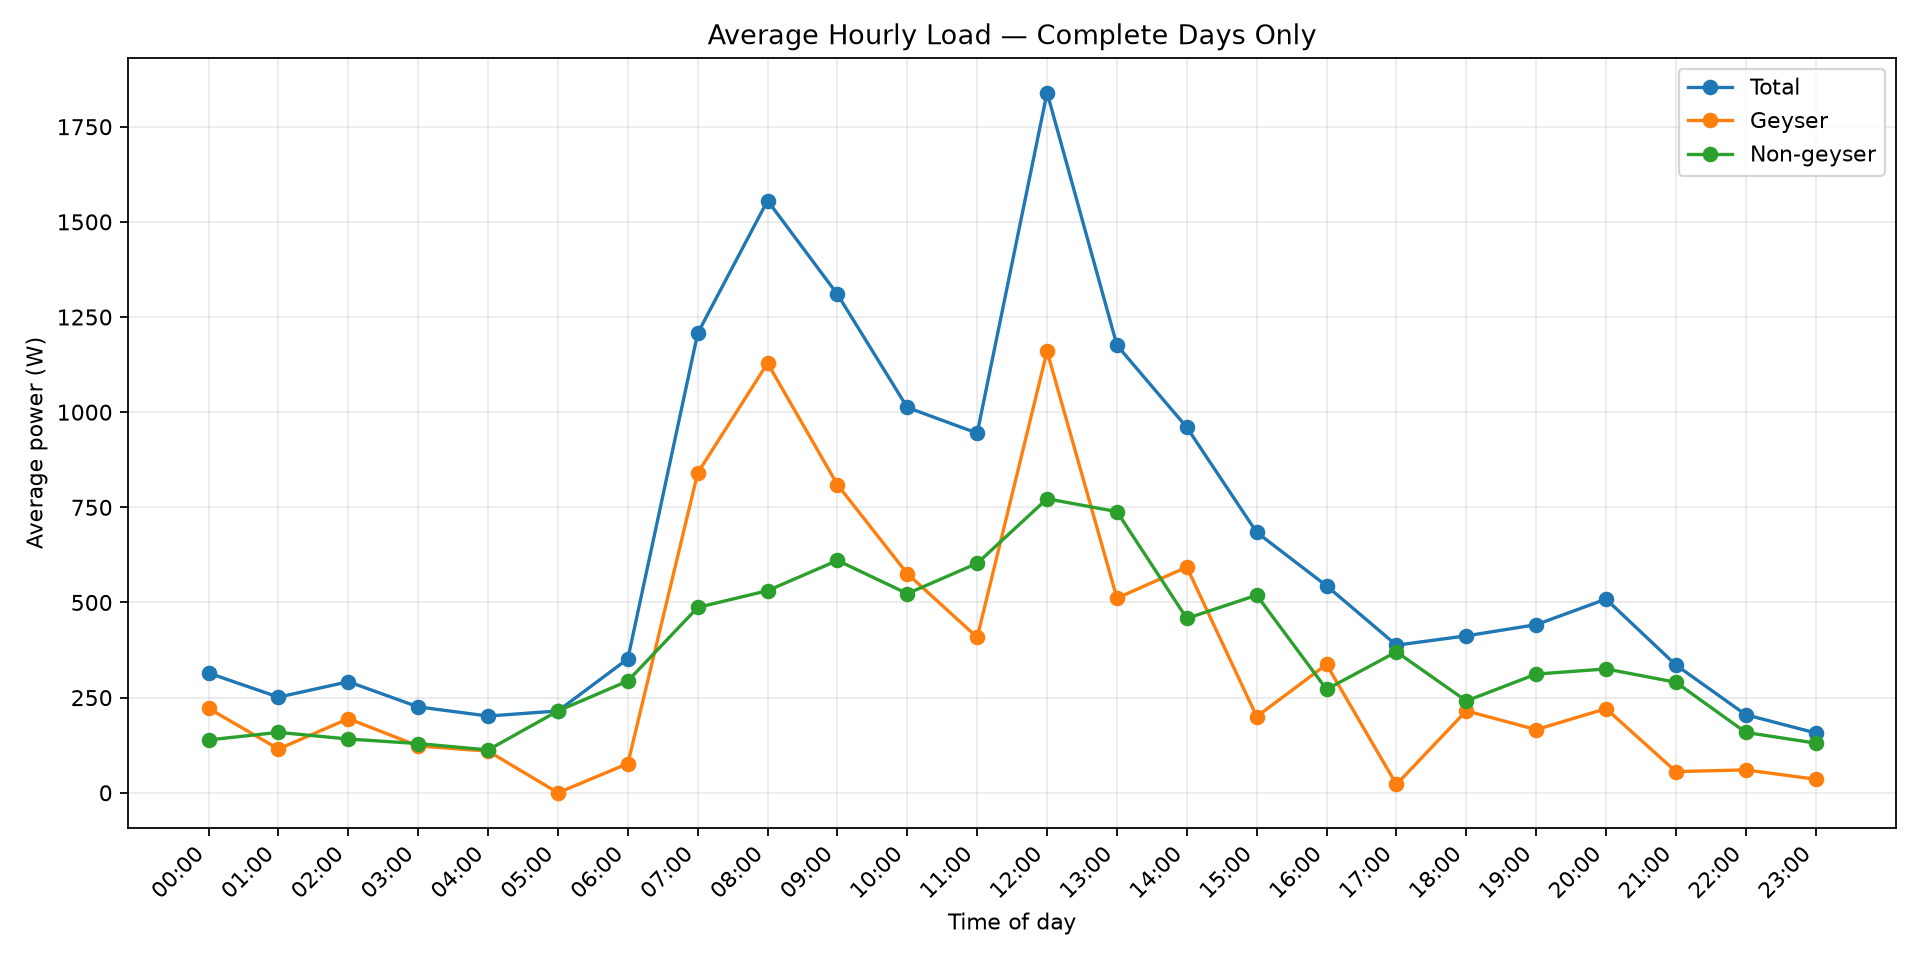
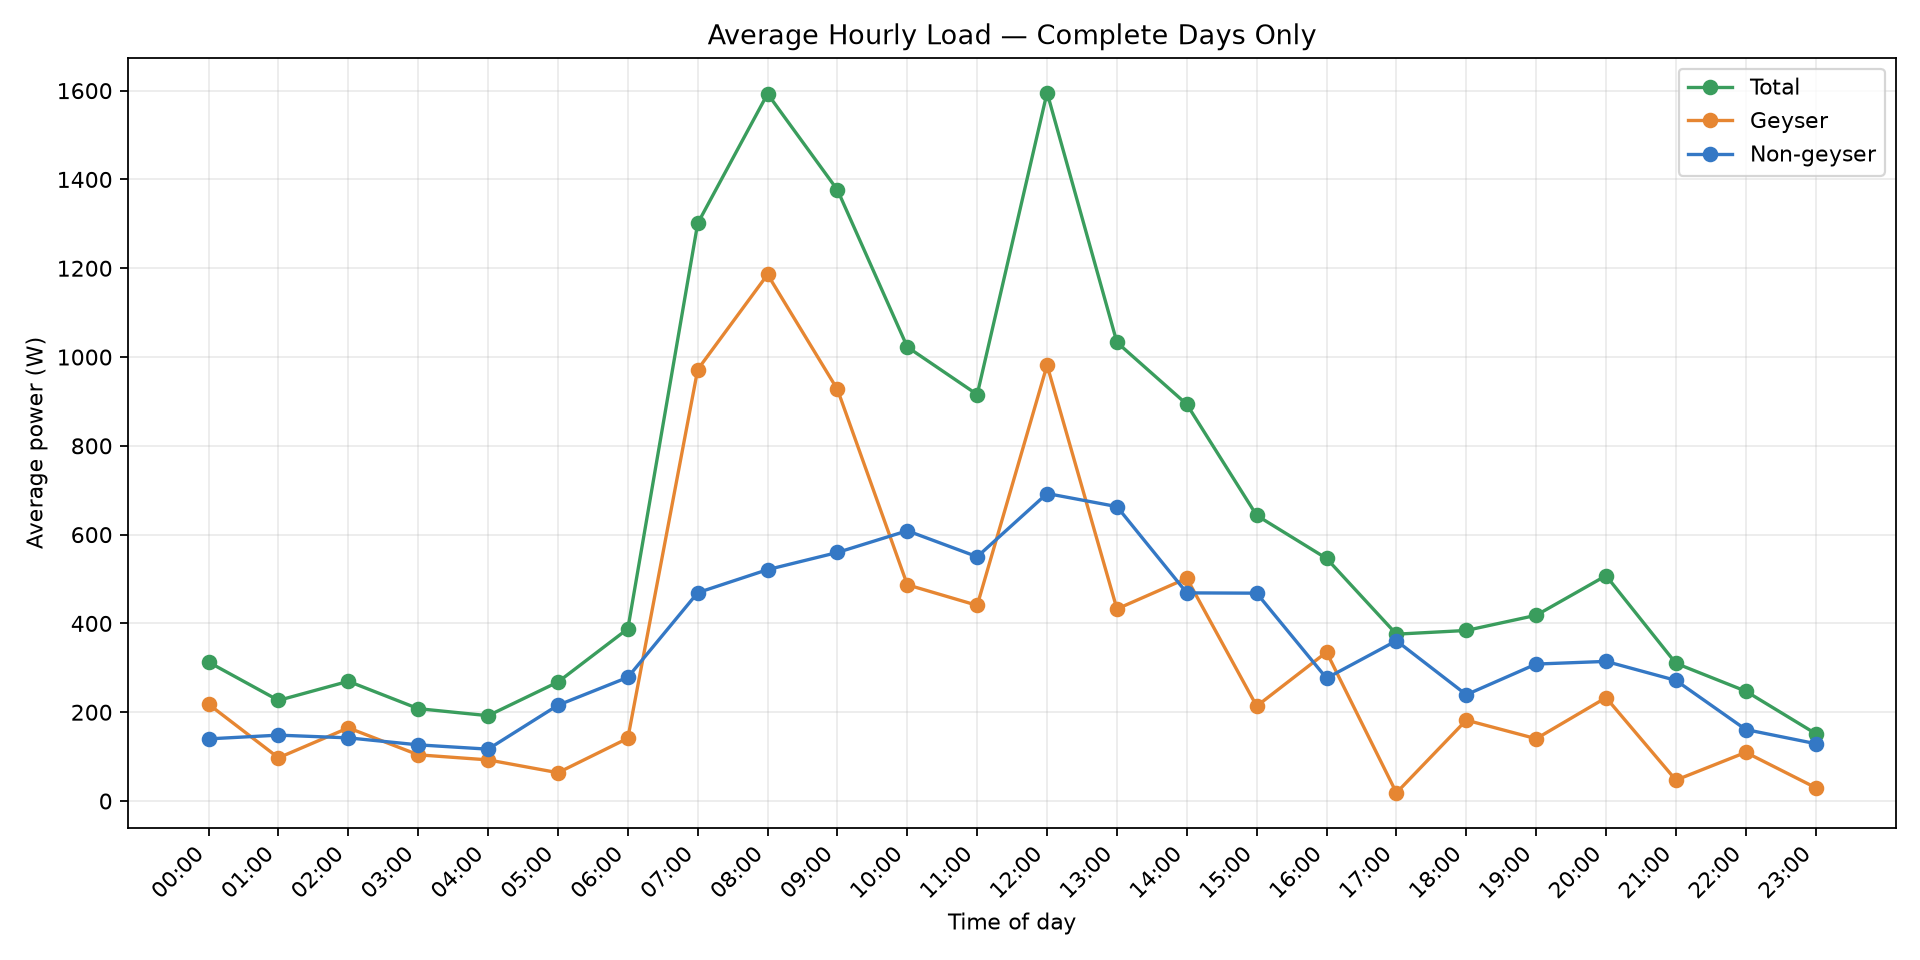
Normalise chart colours and stacking

diff --git a/plot_non_geyser_power.py b/plot_non_geyser_power.py
@@ -21,6 +21,7 @@ from zoneinfo import ZoneInfo
 import matplotlib.dates as mdates
 import matplotlib.pyplot as plt
 from solar_db import connect_database, database_label, sql_placeholder
+from solar_chart_colors import GEYSER, NON_GEYSER, TOTAL
 
 
 TZ = ZoneInfo("Africa/Johannesburg")
@@ -202,16 +203,18 @@ def main():
             for minute in minute_indices
         ]
         ax.bar(minute_indices, non_geyser_avg, width=0.9,
+               color=NON_GEYSER,
                edgecolor="white", linewidth=0.25,
                label="Non-geyser power")
         ax.bar(minute_indices, geyser_avg, width=0.9, bottom=non_geyser_avg,
+               color=GEYSER,
                edgecolor="white", linewidth=0.25,
                label="Geyser power")
         total_minute_avg = [
             non_geyser + geyser
             for non_geyser, geyser in zip(non_geyser_avg, geyser_avg)
         ]
-        ax.plot(minute_indices, total_minute_avg, color="#222222", linewidth=0.6,
+        ax.plot(minute_indices, total_minute_avg, color=TOTAL, linewidth=1.2,
                 label="Total household power")
         hour_ticks = list(range(0, 24 * 60, 60))
         ax.set_xticks(hour_ticks, [f"{hour:02d}:00" for hour in range(24)],
@@ -220,13 +223,13 @@ def main():
     else:
         if args.chart == "non-geyser":
             ax.plot(times, [value / 1000.0 for value in non_geyser_w],
-                    linewidth=1.0, label="Non-geyser power")
+                    color=NON_GEYSER, linewidth=1.0, label="Non-geyser power")
         elif args.chart == "geyser":
             ax.plot(times, [value / 1000.0 for value in geyser_w],
-                    linewidth=1.0, label="Geyser power")
+                    color=GEYSER, linewidth=1.0, label="Geyser power")
         elif args.chart == "total":
             ax.plot(times, [value / 1000.0 for value in total_w],
-                    linewidth=1.0, label="Total household power")
+                    color=TOTAL, linewidth=1.0, label="Total household power")
     chart_titles = {
         "non-geyser": "Non-geyser household power",
         "geyser": "Geyser power",

diff --git a/solar_report.py b/solar_report.py
@@ -24,6 +24,7 @@ import sys
 from datetime import datetime
 
 from solar_db import connect_database
+from solar_chart_colors import GEYSER, NON_GEYSER, TOTAL
 
 import matplotlib.pyplot as plt
 
@@ -238,8 +239,8 @@ def make_daily_chart(out_dir, daily):
 
     fig, ax = plt.subplots(figsize=(11, 6))
 
-    ax.bar(x, geyser, label="Geyser")
-    ax.bar(x, non_geyser, bottom=geyser, label="Non-geyser")
+    ax.bar(x, non_geyser, color=NON_GEYSER, label="Non-geyser")
+    ax.bar(x, geyser, bottom=non_geyser, color=GEYSER, label="Geyser")
 
     for i, row in enumerate(daily):
         if row[5]:
@@ -277,9 +278,9 @@ def make_hourly_chart(out_dir, hourly):
 
     fig, ax = plt.subplots(figsize=(12, 6))
 
-    ax.plot(hours, total, marker="o", label="Total")
-    ax.plot(hours, geyser, marker="o", label="Geyser")
-    ax.plot(hours, non_geyser, marker="o", label="Non-geyser")
+    ax.plot(hours, total, marker="o", color=TOTAL, label="Total")
+    ax.plot(hours, geyser, marker="o", color=GEYSER, label="Geyser")
+    ax.plot(hours, non_geyser, marker="o", color=NON_GEYSER, label="Non-geyser")
 
     ax.set_title("Average Hourly Load — Complete Days Only")
     ax.set_xlabel("Time of day")
@@ -307,8 +308,8 @@ def make_hourly_energy_chart(out_dir, hourly):
 
     fig, ax = plt.subplots(figsize=(12, 6))
 
-    ax.bar(x, geyser, label="Geyser")
-    ax.bar(x, non_geyser, bottom=geyser, label="Non-geyser")
+    ax.bar(x, non_geyser, color=NON_GEYSER, label="Non-geyser")
+    ax.bar(x, geyser, bottom=non_geyser, color=GEYSER, label="Geyser")
 
     ax.set_title("Average Hourly Energy — Complete Days Only")
     ax.set_xlabel("Time of day")

diff --git a/solar_chart_colors.py b/solar_chart_colors.py
@@ -1,0 +1,5 @@
+"""Shared colors for household electricity usage charts."""
+
+NON_GEYSER = "#3478C5"  # Blue
+GEYSER = "#E68632"      # Orange
+TOTAL = "#3A9D5D"       # Green
